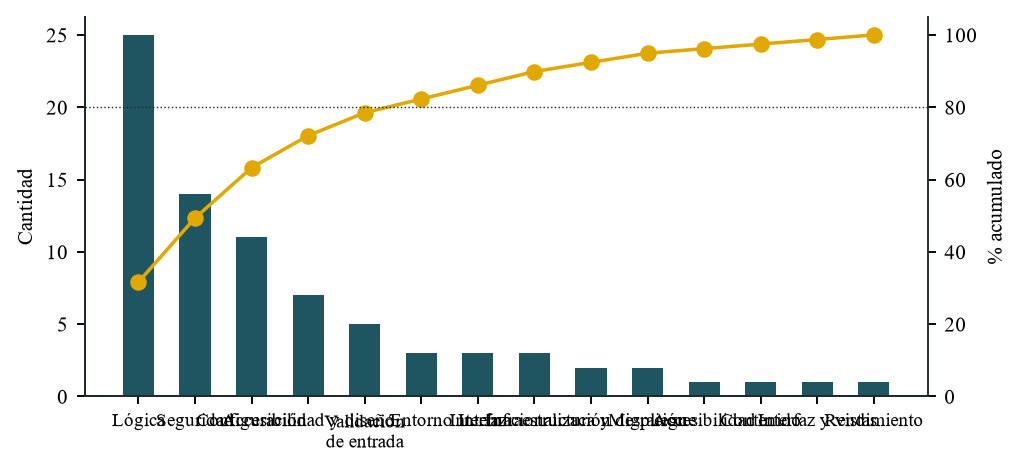
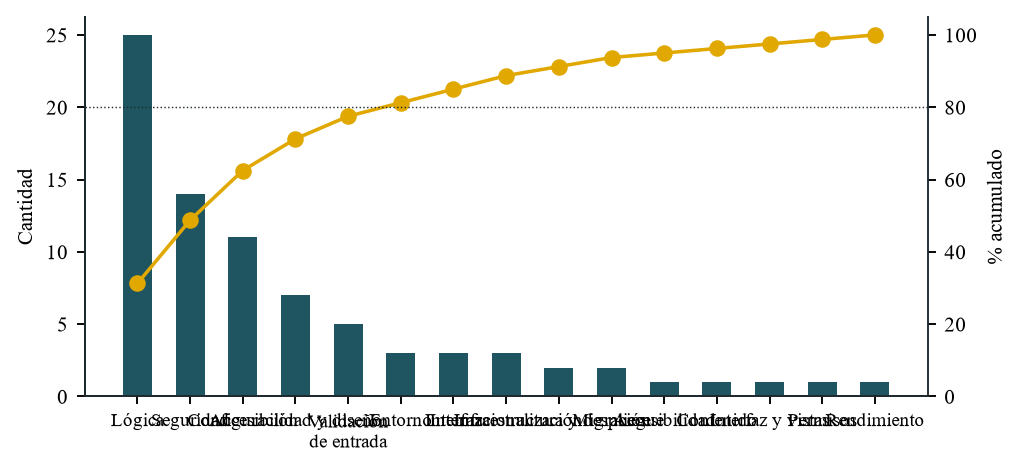
docs: log the trip stop access error of managers

Changed region(s): [[0.1212, 0.417, 0.9091, 0.9532], [0.2121, 0.0596, 0.8485, 0.417], [0.1212, 0.566, 0.1515, 0.6255]]

diff --git a/qa/datos_calidad.py b/qa/datos_calidad.py
@@ -326,6 +326,9 @@ DEFECTOS = [
     ('DEF-079', '18-nov-2026', 'Prueba de la tableta en el emulador de Android Studio', 'Android muestra «la aplicación no responde» durante el turno aunque la app sigue funcionando',
      'expo-task-manager (TaskJobService) en Android 17', 'Cada posición del GPS en segundo plano llega por un trabajo de JobScheduler; en el emulador con Android 17 el sistema no logra enlazar el servicio (Timed out while trying to bind, stated jobs went negative) y lo reporta como ANR. El hilo principal de la app estaba libre.',
      'Entorno', 'Abierto', 'Pendiente: probar en una tableta real o en un emulador con Android 14 o 15; si se repite, agrupar las posiciones para crear menos trabajos'),
+    ('DEF-080', '18-nov-2026', 'Uso en producción (gestor creando un recorrido)', 'Un gestor no podía crear recorridos, sincronizar un bus ni simular: «No puede crear Parada de un recorrido programado»',
+     'models/bus_trip.py, models/bus_vehicle.py, models/trip_simulator.py', 'Crear un recorrido arma sus paradas, y sincronizar o simular guarda posiciones, con el usuario que pulsa el botón; los gestores no pueden crear esos registros del sistema. Las pruebas corrían como superusuario y no lo veían.',
+     'Permisos', 'Cerrado', 'TestTripCreation y TestManagerActions crean, sincronizan y simulan con un gestor real; un usuario de solo lectura no puede sincronizar'),
 ]
 
 # Ishikawa 1: why bad input reaches the system (DEF-008 to DEF-010).

diff --git a/docs/calidad/05-registro-de-defectos.md b/docs/calidad/05-registro-de-defectos.md
@@ -87,8 +87,9 @@ Cada defecto se registra con tres campos separados: fallo observado, defecto loc
 | DEF-077 | 18-nov-2026 | Verificación de v1.0.0-rc1 en Azure | Tras actualizar, los menús en español seguían diciendo Indicadores y Reportes | migrations/16.0.1.9.0/post-migrate.py | Cerrado |
 | DEF-078 | 18-nov-2026 | Prueba de la tableta en el emulador de Android Studio | El emulador perdió el DNS y la app mostraba «Sin conexión» al iniciar sesión | Entorno (emulador Android 17) | Cerrado |
 | DEF-079 | 18-nov-2026 | Prueba de la tableta en el emulador de Android Studio | Android muestra «la aplicación no responde» durante el turno aunque la app sigue funcionando | expo-task-manager (TaskJobService) en Android 17 | Abierto |
+| DEF-080 | 18-nov-2026 | Uso en producción (gestor creando un recorrido) | Un gestor no podía crear recorridos, sincronizar un bus ni simular: «No puede crear Parada de un recorrido programado» | models/bus_trip.py, models/bus_vehicle.py, models/trip_simulator.py | Cerrado |
 
-Resumen: 79 registrados, 78 cerrados (99 %), 1 abiertos. Densidad: 15,7 defectos por KLOC (5,033 KLOC de Python sin pruebas).
+Resumen: 80 registrados, 79 cerrados (99 %), 1 abiertos. Densidad: 15,9 defectos por KLOC (5,033 KLOC de Python sin pruebas).
 
 ## 2. Análisis de causa raíz e impacto
 
@@ -565,6 +566,12 @@ Resumen: 79 registrados, 78 cerrados (99 %), 1 abiertos. Densidad: 15,7 defectos
 - **Causa raíz:** Cada posición del GPS en segundo plano llega por un trabajo de JobScheduler; en el emulador con Android 17 el sistema no logra enlazar el servicio (Timed out while trying to bind, stated jobs went negative) y lo reporta como ANR. El hilo principal de la app estaba libre.
 - **Categoría:** Entorno
 - **Prueba que lo protege:** Pendiente: probar en una tableta real o en un emulador con Android 14 o 15; si se repite, agrupar las posiciones para crear menos trabajos
+
+### DEF-080: Un gestor no podía crear recorridos, sincronizar un bus ni simular: «No puede crear Parada de un recorrido programado»
+
+- **Causa raíz:** Crear un recorrido arma sus paradas, y sincronizar o simular guarda posiciones, con el usuario que pulsa el botón; los gestores no pueden crear esos registros del sistema. Las pruebas corrían como superusuario y no lo veían.
+- **Categoría:** Permisos
+- **Prueba que lo protege:** TestTripCreation y TestManagerActions crean, sincronizan y simulan con un gestor real; un usuario de solo lectura no puede sincronizar
 
 ## 3. Qué falta para cerrar los abiertos
 

diff --git a/docs/calidad/07-pareto.md b/docs/calidad/07-pareto.md
@@ -22,20 +22,21 @@ Fallos de la suite en vivo (3) y de la auditoría aleatoria (57), por causa. Las
 
 | Categoría | Defectos | % | % acumulado |
 |---|---|---|---|
-| Lógica | 25 | 31,6 % | 31,6 % |
-| Seguridad | 14 | 17,7 % | 49,4 % |
-| Configuración | 11 | 13,9 % | 63,3 % |
-| Accesibilidad y diseño | 7 | 8,9 % | 72,2 % |
-| Validación de entrada | 5 | 6,3 % | 78,5 % |
-| Entorno | 3 | 3,8 % | 82,3 % |
-| Interfaz | 3 | 3,8 % | 86,1 % |
-| Internacionalización | 3 | 3,8 % | 89,9 % |
-| Infraestructura y despliegue | 2 | 2,5 % | 92,4 % |
-| Migración | 2 | 2,5 % | 94,9 % |
-| Accesibilidad | 1 | 1,3 % | 96,2 % |
-| Contenido | 1 | 1,3 % | 97,5 % |
-| Interfaz y vistas | 1 | 1,3 % | 98,7 % |
-| Rendimiento | 1 | 1,3 % | 100,0 % |
+| Lógica | 25 | 31,2 % | 31,2 % |
+| Seguridad | 14 | 17,5 % | 48,8 % |
+| Configuración | 11 | 13,8 % | 62,5 % |
+| Accesibilidad y diseño | 7 | 8,8 % | 71,2 % |
+| Validación de entrada | 5 | 6,2 % | 77,5 % |
+| Entorno | 3 | 3,8 % | 81,2 % |
+| Interfaz | 3 | 3,8 % | 85,0 % |
+| Internacionalización | 3 | 3,8 % | 88,8 % |
+| Infraestructura y despliegue | 2 | 2,5 % | 91,2 % |
+| Migración | 2 | 2,5 % | 93,8 % |
+| Accesibilidad | 1 | 1,2 % | 95,0 % |
+| Contenido | 1 | 1,2 % | 96,2 % |
+| Interfaz y vistas | 1 | 1,2 % | 97,5 % |
+| Permisos | 1 | 1,2 % | 98,8 % |
+| Rendimiento | 1 | 1,2 % | 100,0 % |
 
 **Lectura:** con la auditoría del 2-nov la lógica y la seguridad pasan a encabezar: los defectos ya no están en la entrada de datos sino en reglas que se cumplían sólo en un lado (la vista y no el método, la tableta y no el servidor). Quedan abiertos: DEF-079, de la segunda auditoría (17-nov); de nuevo la lógica y la seguridad dominan, ahora en el despliegue y en la cola de la tableta.
 

diff --git a/docs/calidad/04-resultados-y-metricas.md b/docs/calidad/04-resultados-y-metricas.md
@@ -15,7 +15,7 @@ Generado por `qa/generar_docs.py` con los datos de la ejecución del 5-nov-2026.
 | Capacidad de ingesta (100 buses, un reporte cada 10 s) | ≥ 10 req/s | 37,1 req/s | Sí |
 | Cobertura de código (sentencias y ramas) | ≥ 80 % | 95,9 % | Sí |
 | Cobertura de rutas HTTP | 100 % | 100,0 % | Sí |
-| Defectos cerrados | ≥ 90 % | 98,7 % | Sí |
+| Defectos cerrados | ≥ 90 % | 98,8 % | Sí |
 | Posiciones con datos imposibles | 0 | 0 | Sí |
 | Integridad concurrente (P6: 20 envíos iguales) | 1 guardada | 1 guardada | Sí |
 
